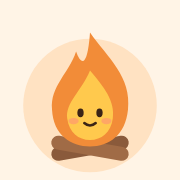
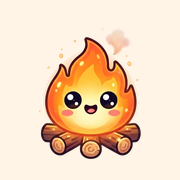
Dibujos de la pareja: Chispa, icono, avatares y pestañas
- Chispa con sus 5 ilustraciones (reposo, escuchando, pensando, contento, duda)
- Icono de la app a partir del dibujo de Chispa
- Avatares dibujados que cada uno elige en Ajustes (columna miembros.avatar)
- Iconos dibujados en Compras, Casa, Tablero y Bandeja

Claude-Session: https://claude.ai/code/session_01M3rsgQPDVC5GU13Uod9RZr

diff --git a/src/componentes/Personaje.jsx b/src/componentes/Personaje.jsx
@@ -1,83 +1,20 @@
-// Chispa, el personaje de la hoguera. Ilustración SVG con 5 estados de ánimo.
-const OSCURO = '#3b2416'
+// Chispa, el personaje de la hoguera. Ilustraciones de Javi y su pareja, una por estado de ánimo.
+const ANIMOS = ['reposo', 'escuchando', 'pensando', 'contento', 'duda']
+const ruta = (animo) => `${import.meta.env.BASE_URL}img/chispa-${animo}.png`
 
-function Cara({ animo }) {
-  switch (animo) {
-    case 'escuchando':
-      return (
-        <g>
-          <ellipse cx="85" cy="144" rx="7" ry="9" fill={OSCURO} />
-          <ellipse cx="115" cy="144" rx="7" ry="9" fill={OSCURO} />
-          <circle cx="87" cy="141" r="2.5" fill="#fff" />
-          <circle cx="117" cy="141" r="2.5" fill="#fff" />
-          <ellipse cx="100" cy="166" rx="6" ry="7" fill={OSCURO} />
-        </g>
-      )
-    case 'pensando':
-      return (
-        <g>
-          <ellipse cx="85" cy="144" rx="5" ry="7" fill={OSCURO} />
-          <ellipse cx="115" cy="144" rx="5" ry="7" fill={OSCURO} />
-          <circle cx="86" cy="139" r="2" fill="#fff" />
-          <circle cx="116" cy="139" r="2" fill="#fff" />
-          <path d="M92 166 h16" stroke={OSCURO} strokeWidth="4" strokeLinecap="round" />
-          <g className="puntos" fill={OSCURO}>
-            <circle cx="150" cy="40" r="5" />
-            <circle cx="166" cy="28" r="6" />
-            <circle cx="184" cy="14" r="7" />
-          </g>
-        </g>
-      )
-    case 'contento':
-      return (
-        <g fill="none" stroke={OSCURO} strokeWidth="4.5" strokeLinecap="round">
-          <path d="M78 147 q7 -10 14 0" />
-          <path d="M108 147 q7 -10 14 0" />
-          <path d="M86 160 q14 16 28 0" fill={OSCURO} />
-        </g>
-      )
-    case 'duda':
-      return (
-        <g>
-          <ellipse cx="85" cy="145" rx="5" ry="7" fill={OSCURO} />
-          <ellipse cx="115" cy="146" rx="4" ry="4" fill={OSCURO} />
-          <path d="M108 133 l14 -4" stroke={OSCURO} strokeWidth="4" strokeLinecap="round" />
-          <path d="M90 167 q5 -5 10 0 q5 5 10 0" fill="none" stroke={OSCURO} strokeWidth="4" strokeLinecap="round" />
-          <text x="160" y="60" fontSize="44" fontWeight="800" fill={OSCURO} fontFamily="Nunito, sans-serif">?</text>
-        </g>
-      )
-    default:
-      return (
-        <g>
-          <ellipse cx="85" cy="145" rx="5" ry="7" fill={OSCURO} />
-          <ellipse cx="115" cy="145" rx="5" ry="7" fill={OSCURO} />
-          <circle cx="86" cy="142" r="2" fill="#fff" />
-          <circle cx="116" cy="142" r="2" fill="#fff" />
-          <path d="M91 161 q9 8 18 0" fill="none" stroke={OSCURO} strokeWidth="4" strokeLinecap="round" />
-        </g>
-      )
+// Precarga para que el cambio de cara sea instantáneo
+if (typeof window !== 'undefined') {
+  for (const a of ANIMOS) {
+    const img = new Image()
+    img.src = ruta(a)
   }
 }
 
 export default function Personaje({ animo = 'reposo', tamano = 200, onClick, intenso = false }) {
+  const cara = ANIMOS.includes(animo) ? animo : 'reposo'
   return (
-    <button className={`personaje animo-${animo} ${intenso ? 'intenso' : ''}`} onClick={onClick} aria-label="Hablar con Chispa" type="button">
-      <svg viewBox="0 0 200 230" width={tamano} height={tamano * 1.15} aria-hidden="true">
-        <ellipse cx="100" cy="222" rx="70" ry="7" fill="#000" opacity="0.08" />
-        <g className="troncos">
-          <rect x="38" y="190" width="124" height="22" rx="11" fill="#8a5a3b" transform="rotate(-10 100 201)" />
-          <rect x="38" y="190" width="124" height="22" rx="11" fill="#a06b46" transform="rotate(10 100 201)" />
-          <circle cx="44" cy="190" r="7" fill="#c99470" />
-          <circle cx="156" cy="190" r="7" fill="#c99470" />
-        </g>
-        <g className="llama">
-          <path d="M100 18 C128 58 166 88 160 140 C156 180 130 198 100 198 C70 198 42 180 40 140 C37 102 66 84 78 48 C86 70 96 74 100 18 Z" fill="#f28c38" />
-          <path d="M100 78 C122 104 140 126 136 154 C133 176 118 188 100 188 C82 188 67 176 64 154 C61 128 86 112 100 78 Z" fill="#ffc94d" />
-          <ellipse cx="74" cy="158" rx="8" ry="5" fill="#ff8a7a" opacity="0.55" />
-          <ellipse cx="126" cy="158" rx="8" ry="5" fill="#ff8a7a" opacity="0.55" />
-          <Cara animo={animo} />
-        </g>
-      </svg>
+    <button className={`personaje animo-${cara} ${intenso ? 'intenso' : ''}`} onClick={onClick} aria-label="Hablar con Chispa" type="button">
+      <img className="llama" src={ruta(cara)} width={tamano} height={tamano} alt="" draggable="false" />
     </button>
   )
 }

diff --git a/src/estilos.css b/src/estilos.css
@@ -78,20 +78,19 @@ textarea { resize: none; }
 .avatar.vacio { width: 44px; height: 44px; background: #eadbcc; color: var(--suave); font-size: 1.2rem; }
 
 /* Personaje */
-.personaje { background: none; border: none; padding: 0; cursor: pointer; touch-action: manipulation; }
-.personaje svg { display: block; overflow: visible; }
-.personaje .llama { transform-origin: 100px 198px; animation: llama 2.4s ease-in-out infinite; }
-.personaje.intenso .llama { animation-duration: 0.9s; }
-.personaje.animo-escuchando .llama { animation: llama 1.2s ease-in-out infinite, crecer 0.3s ease-out; }
-.personaje.animo-pensando .puntos circle { animation: punto 1s infinite; }
-.personaje.animo-pensando .puntos circle:nth-child(2) { animation-delay: 0.15s; }
-.personaje.animo-pensando .puntos circle:nth-child(3) { animation-delay: 0.3s; }
-.personaje.animo-contento .llama { animation: salto 0.5s ease-out 2, llama 2.4s ease-in-out 1s infinite; }
-.personaje:active .llama { transform: scale(0.95); }
-@keyframes llama { 0%, 100% { transform: scale(1, 1) skewX(0deg); } 30% { transform: scale(1.02, 0.97) skewX(1.5deg); } 65% { transform: scale(0.98, 1.03) skewX(-1.5deg); } }
+.personaje { background: none; border: none; padding: 0; cursor: pointer; touch-action: manipulation; -webkit-user-select: none; user-select: none; }
+.personaje img { display: block; transform-origin: 50% 92%; animation: llama 2.6s ease-in-out infinite; pointer-events: none; }
+.personaje.intenso img { animation-duration: 0.9s; }
+.personaje.animo-escuchando img { animation: crecer 0.3s ease-out, llama 1.2s ease-in-out 0.3s infinite; }
+.personaje.animo-pensando img { animation: pensar 1.6s ease-in-out infinite; }
+.personaje.animo-contento img { animation: salto 0.5s ease-out 2, llama 2.6s ease-in-out 1s infinite; }
+.personaje.animo-duda img { animation: ladear 1.4s ease-in-out infinite; }
+.personaje:active img { transform: scale(0.95); }
+@keyframes llama { 0%, 100% { transform: scale(1, 1); } 35% { transform: scale(1.015, 0.985); } 70% { transform: scale(0.99, 1.02); } }
 @keyframes crecer { from { transform: scale(0.9); } to { transform: scale(1); } }
 @keyframes salto { 0%, 100% { transform: translateY(0); } 40% { transform: translateY(-14px) scale(1.04); } }
-@keyframes punto { 0%, 100% { opacity: 0.25; } 50% { opacity: 1; } }
+@keyframes pensar { 0%, 100% { transform: rotate(0); } 50% { transform: rotate(-3deg); } }
+@keyframes ladear { 0%, 100% { transform: rotate(0); } 30% { transform: rotate(4deg); } 60% { transform: rotate(-2deg); } }
 
 /* Inicio */
 .escena {
@@ -278,3 +277,14 @@ h3 { font-size: 0.95rem; font-weight: 800; margin: 14px 0 6px; }
 .microfono { width: 100%; font-size: 1.05rem; }
 .microfono.grabando { background: #fde4e0; border-color: var(--brasa); color: var(--brasa); animation: latido 1.2s ease-in-out infinite; }
 @keyframes latido { 50% { transform: scale(1.02); } }
+
+.avatar.con-imagen { background: #fff; border-width: 2.5px; overflow: hidden; padding: 0; }
+.avatar.con-imagen img { width: 100%; height: 100%; object-fit: cover; object-position: 50% 15%; }
+.icono-img { width: 26px; height: 26px; object-fit: contain; display: block; }
+.pestanas button .icono-img { width: 28px; height: 28px; filter: grayscale(0.6); opacity: 0.75; }
+.pestanas button.activa .icono-img { filter: none; opacity: 1; }
+h1 .icono-img, h2 .icono-img { display: inline-block; width: 1.3em; height: 1.3em; vertical-align: -0.25em; margin-right: 4px; }
+.cabecera .icono-boton .icono-img { width: 28px; height: 28px; }
+.avatares { display: flex; gap: 12px; flex-wrap: wrap; }
+.avatares button { border: 3px solid transparent; border-radius: 50%; padding: 2px; background: none; cursor: pointer; }
+.avatares button.activo { border-color: var(--fuego); }

diff --git a/src/App.jsx b/src/App.jsx
@@ -10,13 +10,14 @@ import Agenda from './pantallas/Agenda.jsx'
 import Casa from './pantallas/Casa.jsx'
 import Tablero from './pantallas/Tablero.jsx'
 import Ajustes from './pantallas/Ajustes.jsx'
+import Icono from './componentes/Icono.jsx'
 
 const PESTANAS = [
-  { id: 'inicio', icono: '🔥', nombre: 'Hoguera' },
-  { id: 'compras', icono: '🛒', nombre: 'Compras' },
+  { id: 'inicio', img: 'chispa-reposo', nombre: 'Hoguera' },
+  { id: 'compras', img: 'icono-compras', nombre: 'Compras' },
   { id: 'cocina', icono: '🍳', nombre: 'Cocina' },
   { id: 'agenda', icono: '📅', nombre: 'Agenda' },
-  { id: 'casa', icono: '🏠', nombre: 'Casa' },
+  { id: 'casa', img: 'icono-casa', nombre: 'Casa' },
 ]
 
 export default function App() {
@@ -88,7 +89,7 @@ function Principal({ yo, hogar, recargarPerfil }) {
       <header className="cabecera">
         <span className="marca pequena" onClick={() => irA('inicio')}>La Hoguera</span>
         <span>
-          <button className={`boton icono-boton ${pestana === 'tablero' ? 'activo' : ''}`} onClick={() => irA('tablero')} aria-label="Tablero de notas">💌</button>
+          <button className={`boton icono-boton ${pestana === 'tablero' ? 'activo' : ''}`} onClick={() => irA('tablero')} aria-label="Tablero de notas"><Icono img="icono-tablero" /></button>
           <button className={`boton icono-boton ${pestana === 'ajustes' ? 'activo' : ''}`} onClick={() => irA('ajustes')} aria-label="Ajustes">⚙</button>
         </span>
       </header>
@@ -112,7 +113,7 @@ function Principal({ yo, hogar, recargarPerfil }) {
       <nav className="pestanas">
         {PESTANAS.map((p) => (
           <button key={p.id} className={pestana === p.id ? 'activa' : ''} onClick={() => irA(p.id)}>
-            <span className="icono">{p.icono}</span>
+            <Icono img={p.img} emoji={p.icono} />
             <span>{p.nombre}</span>
           </button>
         ))}

diff --git a/src/pantallas/Ajustes.jsx b/src/pantallas/Ajustes.jsx
@@ -1,6 +1,6 @@
 import { useState } from 'react'
 import { supabase } from '../supabase.js'
-import Avatar from '../componentes/Avatar.jsx'
+import Avatar, { AVATARES, rutaAvatar } from '../componentes/Avatar.jsx'
 
 const COLORES = ['#e8833a', '#4a90c2', '#e05d75', '#3fa37a', '#7a6fb0', '#d4a72c', '#8a5a3b']
 
@@ -44,6 +44,17 @@ export default function Ajustes({ sesion, alCambiar, avisar }) {
             <button className="boton" disabled={!nombre.trim() || nombre === yo.nombre} onClick={() => guardarPerfil({ nombre: nombre.trim() })}>Guardar</button>
           </div>
         </label>
+        <span>Tu avatar</span>
+        <div className="avatares">
+          <button className={!yo.avatar ? 'activo' : ''} onClick={() => guardarPerfil({ avatar: null })} aria-label="Sin dibujo, solo inicial">
+            <span className="avatar" style={{ background: yo.color, width: 56, height: 56, fontSize: 24 }}>{yo.nombre.charAt(0).toUpperCase()}</span>
+          </button>
+          {AVATARES.map((a) => (
+            <button key={a} className={yo.avatar === a ? 'activo' : ''} onClick={() => guardarPerfil({ avatar: a })} aria-label={`Avatar ${a}`}>
+              <span className="avatar con-imagen" style={{ width: 56, height: 56, borderColor: yo.color }}><img src={rutaAvatar(a)} alt="" /></span>
+            </button>
+          ))}
+        </div>
         <span>Tu color</span>
         <div className="colores">
           {COLORES.map((c) => (

diff --git a/src/pantallas/Inicio.jsx b/src/pantallas/Inicio.jsx
@@ -2,6 +2,7 @@ import { useCallback, useState } from 'react'
 import Personaje from '../componentes/Personaje.jsx'
 import Avatar from '../componentes/Avatar.jsx'
 import Burbuja from '../componentes/Burbuja.jsx'
+import Icono from '../componentes/Icono.jsx'
 import { useTabla } from '../useTabla.js'
 import { borrar, euros } from '../datos.js'
 import { NOMBRES_SECCION } from '../clasificador.js'
@@ -135,7 +136,7 @@ export default function Inicio({ sesion, irA, avisar }) {
 
       {entradas.filas.length > 0 && (
         <section className="tarjeta">
-          <h2>📥 Bandeja</h2>
+          <h2><Icono img="icono-bandeja" /> Bandeja</h2>
           <p className="suave pequeno">Cosas que Chispa no ha sabido dónde poner, o de secciones que aún no existen.</p>
           <ul className="lista">
             {entradas.filas.map((e) => (

diff --git a/src/pantallas/Tablero.jsx b/src/pantallas/Tablero.jsx
@@ -3,6 +3,7 @@ import { supabase } from '../supabase.js'
 import { useTabla } from '../useTabla.js'
 import { fechaBonita, aISO } from '../fechas.js'
 import Avatar from '../componentes/Avatar.jsx'
+import Icono from '../componentes/Icono.jsx'
 
 export const COLORES_NOTA = ['#fff3b0', '#ffd6d6', '#d7f0dd', '#d6e8ff', '#ecdcff', '#ffe2c4']
 
@@ -40,7 +41,7 @@ export default function Tablero({ sesion, avisar }) {
 
   return (
     <div className="pantalla">
-      <h1>💌 Tablero</h1>
+      <h1><Icono img="icono-tablero" /> Tablero</h1>
       <form className="tarjeta formulario nueva-nota" onSubmit={enviar} style={{ background: color }}>
         <textarea rows={3} placeholder="Déjale algo bonito…" value={texto} onChange={(e) => setTexto(e.target.value)} />
         <div className="fila">

diff --git a/src/componentes/Avatar.jsx b/src/componentes/Avatar.jsx
@@ -1,5 +1,15 @@
+export const AVATARES = ['avatar-1', 'avatar-2']
+export const rutaAvatar = (a) => `${import.meta.env.BASE_URL}img/${a}.png`
+
 export default function Avatar({ miembro, tamano = 36 }) {
   if (!miembro) return null
+  if (miembro.avatar && AVATARES.includes(miembro.avatar)) {
+    return (
+      <span className="avatar con-imagen" style={{ width: tamano, height: tamano, borderColor: miembro.color }} title={miembro.nombre}>
+        <img src={rutaAvatar(miembro.avatar)} alt={miembro.nombre} />
+      </span>
+    )
+  }
   return (
     <span className="avatar" style={{ background: miembro.color, width: tamano, height: tamano, fontSize: tamano * 0.45 }} title={miembro.nombre}>
       {miembro.nombre.charAt(0).toUpperCase()}

diff --git a/src/pantallas/Casa.jsx b/src/pantallas/Casa.jsx
@@ -2,12 +2,13 @@ import { useState } from 'react'
 import Segmentos from '../componentes/Segmentos.jsx'
 import Arreglos from './Arreglos.jsx'
 import Gastos from './Gastos.jsx'
+import Icono from '../componentes/Icono.jsx'
 
 export default function Casa(props) {
   const [apartado, setApartado] = useState(props.apartado || 'arreglos')
   return (
     <div className="pantalla">
-      <h1>🏠 Casa</h1>
+      <h1><Icono img="icono-casa" /> Casa</h1>
       <Segmentos opciones={[{ id: 'arreglos', nombre: '🔧 Arreglos' }, { id: 'gastos', nombre: '💶 Gastos' }]} valor={apartado} alCambiar={setApartado} />
       {apartado === 'arreglos' ? <Arreglos {...props} /> : <Gastos {...props} />}
     </div>

diff --git a/src/pantallas/Compras.jsx b/src/pantallas/Compras.jsx
@@ -2,12 +2,13 @@ import { useState } from 'react'
 import Segmentos from '../componentes/Segmentos.jsx'
 import Compra from './Compra.jsx'
 import Cosas from './Cosas.jsx'
+import Icono from '../componentes/Icono.jsx'
 
 export default function Compras(props) {
   const [apartado, setApartado] = useState(props.apartado || 'super')
   return (
     <div className="pantalla">
-      <h1>🛒 Compras</h1>
+      <h1><Icono img="icono-compras" /> Compras</h1>
       <Segmentos
         opciones={[{ id: 'super', nombre: '🥖 Súper' }, { id: 'cosas', nombre: '📦 Cosas' }]}
         valor={apartado}

diff --git a/vite.config.js b/vite.config.js
@@ -26,7 +26,7 @@ export default defineConfig({
           { src: 'icono-512.png', sizes: '512x512', type: 'image/png', purpose: 'maskable' },
         ],
       },
-      workbox: { navigateFallback: '/la-hoguera/index.html' },
+      workbox: { navigateFallback: '/la-hoguera/index.html', globPatterns: ['**/*.{js,css,html,png}'] },
     }),
   ],
   test: { include: ['test/**/*.test.js'] },

diff --git a/src/componentes/Icono.jsx b/src/componentes/Icono.jsx
@@ -1,0 +1,5 @@
+// Iconos dibujados por la pareja; si no hay dibujo para algo, se usa un emoji
+export default function Icono({ img, emoji }) {
+  if (img) return <img className="icono-img" src={`${import.meta.env.BASE_URL}img/${img}.png`} alt="" />
+  return <span className="icono">{emoji}</span>
+}
